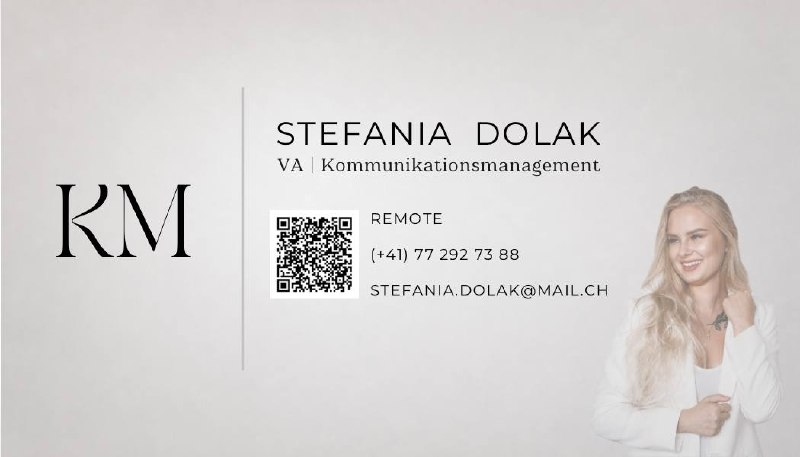
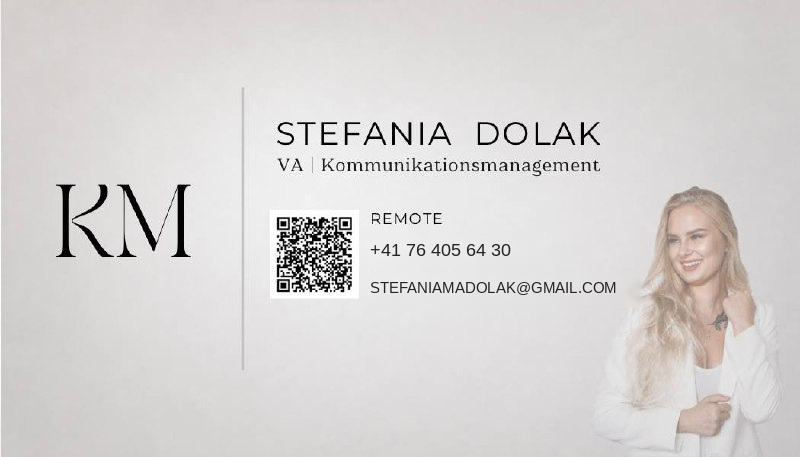
Update contact details and remove website service

Changed region(s): [[0.4688, 0.5208, 0.6562, 0.5821], [0.4375, 0.6127, 0.7812, 0.6433]]

diff --git a/src/app/page.tsx b/src/app/page.tsx
@@ -55,12 +55,6 @@ export default function Home() {
       kurz: "Struktur schaffen, wo Chaos war.",
       lang: "Ein Projekt, das nicht vorankommt? Oder einen Wandel, den niemand versteht? Ich analysiere die Lage, identifiziere Stolpersteine und entwickele einen klaren Plan — zusammen, damit der Change wirklich ankommt.",
     },
-    {
-      id: "webseite",
-      title: "Webseitenanalyse & -erstellung",
-      kurz: "Online sichtbar — und zwar richtig.",
-      lang: "Deine Webseite ist deine digitale Visitenkarte. Ich analysiere, was funktioniert und was nicht — und wenn nötig, bauen wir sie neu auf. Technisch fundiert, ästhetisch ansprechend und vor allem: so, dass die Besucher verstehen, wer dahinter steht.",
-    },
   ];
 
   const tools = [
@@ -147,8 +141,8 @@ export default function Home() {
 
         <div className="sr-only">
           <p>REMOTE</p>
-          <p>(+41) 77 292 73 88</p>
-          <p>stefania.dolak@mail.ch</p>
+          <p>+41 76 405 64 30</p>
+          <p>stefaniamadolak@gmail.com</p>
           <p>Zum Drehen auf die Visitenkarte tippen</p>
         </div>
       </section>
@@ -258,7 +252,7 @@ export default function Home() {
           </div>
 
           <a
-            href="mailto:stefania.dolak@mail.ch?subject=Termin%20vereinbaren"
+            href="mailto:stefaniamadolak@gmail.com?subject=Termin%20vereinbaren"
             className="ccq-appointment-button inline-flex rounded-full uppercase border transition-all duration-300 hover:opacity-80"
             style={{
               borderColor: "var(--ccq-dark)",
@@ -429,11 +423,23 @@ export default function Home() {
 
           <p className="text-sm" style={{ color: "var(--ccq-light)" }}>
             <a
-              href="mailto:stefania.dolak@mail.ch"
+              href="mailto:stefaniamadolak@gmail.com"
               className="underline underline-offset-4 hover:opacity-100 transition opacity-80"
               style={{ color: "var(--ccq-light)" }}
             >
-              stefania.dolak@mail.ch
+              stefaniamadolak@gmail.com
+            </a>
+          </p>
+
+          <p className="text-sm" style={{ color: "var(--ccq-light)" }}>
+            <a
+              href="https://wa.me/41764056430"
+              target="_blank"
+              rel="noopener noreferrer"
+              className="underline underline-offset-4 hover:opacity-100 transition opacity-80"
+              style={{ color: "var(--ccq-light)" }}
+            >
+              +41 76 405 64 30 · WhatsApp
             </a>
           </p>
 
@@ -449,8 +455,8 @@ export default function Home() {
           </button>
 
           <div className="pt-4 space-y-2 text-sm opacity-60" style={{ color: "var(--ccq-light)" }}>
-            <p>stefania.dolak@mail.ch</p>
-            <p>(+41) 77 292 73 88</p>
+            <p>stefaniamadolak@gmail.com</p>
+            <p>+41 76 405 64 30</p>
           </div>
         </div>
       </section>

diff --git a/public/angebot.html b/public/angebot.html
@@ -443,7 +443,8 @@
       </div>
     </div>
     <div class="contact-info">
-      <div>✉ stefania.dolak@mail.ch</div>
+      <div>✉ <a href="mailto:stefaniamadolak@gmail.com">stefaniamadolak@gmail.com</a></div>
+      <div>◉ <a href="https://wa.me/41764056430" target="_blank" rel="noopener noreferrer">+41 76 405 64 30 · WhatsApp</a></div>
       <div>🌐 stefania-dolak-charactercard.vercel.app</div>
     </div>
   </div>
@@ -454,7 +455,7 @@
       <h2>VERWALTUNG · PSYCHOLOGIE · SYSTEMIK</h2>
       <div class="gold-line"></div>
       <p>Ich verbinde Struktur mit Menschlichkeit. Für Kommunikation, die wirklich ankommt.</p>
-      <div class="highlight">Stundenbasiert — für dich.<br>Kundenservice · Mitarbeiterbetreuung · Projektanalyse · Webseiten · CharacterCard</div>
+      <div class="highlight">Stundenbasiert — für dich.<br>Kundenservice · Mitarbeiterbetreuung · Projektanalyse · CharacterCard</div>
     </div>
     <div class="hero-photo">
       <img src="angebotsseite-foto.jpg" alt="Stefania Dolak">
@@ -504,9 +505,8 @@
       <div class="service-icon">
         <svg viewBox="0 0 24 24"><rect x="2" y="3" width="20" height="14" rx="2" ry="2"/><line x1="8" y1="21" x2="16" y2="21"/><line x1="12" y1="17" x2="12" y2="21"/></svg>
       </div>
-      <h3>Webseite &amp;<br>CCQ</h3>
+      <h3>Character<br>Card</h3>
       <ul>
-        <li>Webseitenanalyse & Erstellung</li>
         <li>CharacterCard Anpassung</li>
         <li>Digitale Visitenkarte für dich</li>
       </ul>

diff --git a/src/components/SaveContactButton.tsx b/src/components/SaveContactButton.tsx
@@ -7,8 +7,8 @@ VERSION:4.0
 FN:Stefania Dolak
 N:Dolak;Stefania;;;
 ORG:VA für Kommunikationsmanagement
-TEL;TYPE=CELL:+41 79 000 00 00
-EMAIL;TYPE=WORK:stefania.dolak@mail.ch
+TEL;TYPE=CELL:+41 76 405 64 30
+EMAIL;TYPE=WORK:stefaniamadolak@gmail.com
 URL:https://stefania-dolak-charactercard.vercel.app
 NOTE:Erkannt werden fuer das was wirklich zaehlt
 END:VCARD`;
